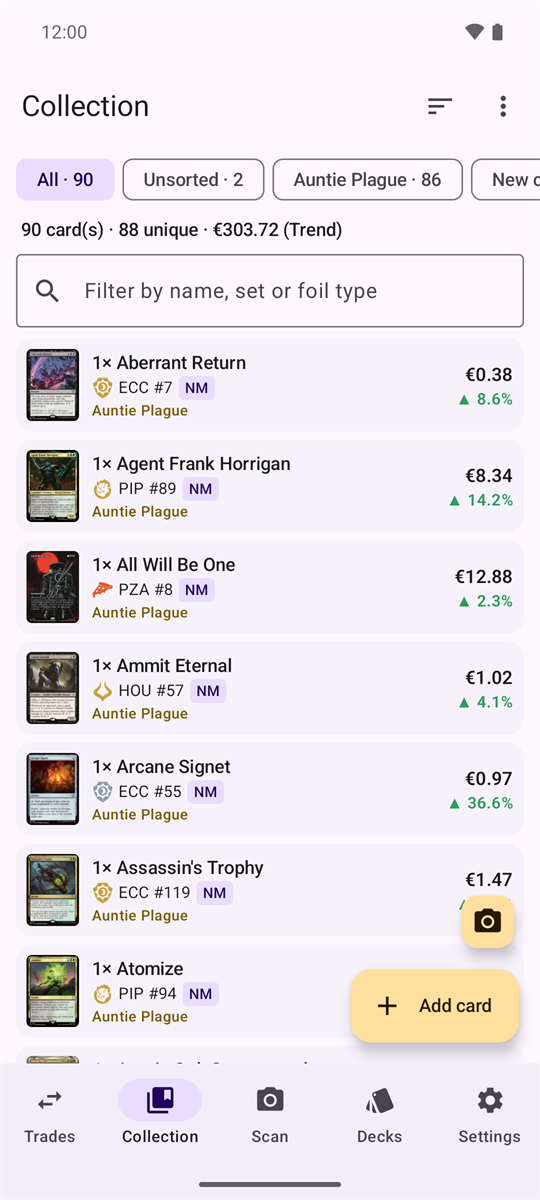
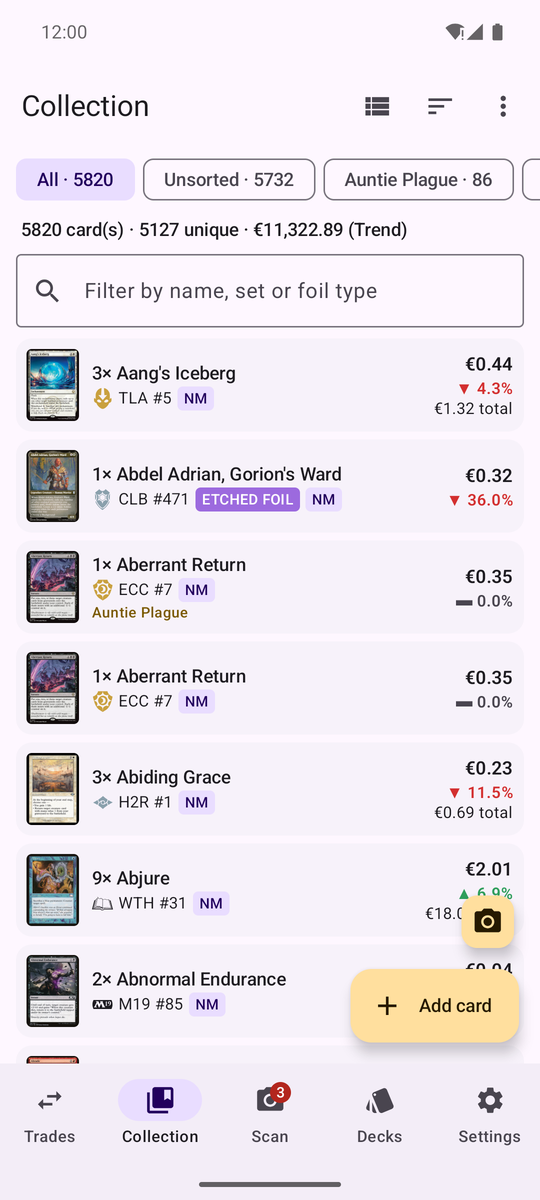
README: new screenshots for 1.12
Collection list and compact views, Commander decks, deck page with Refresh bracket and power level,
the app's bracket and power cards (replacing Commander Salt's image) and Settings with the power level
source and Nextcloud sync.

diff --git a/README.md b/README.md
@@ -4,13 +4,17 @@ Track Magic: The Gathering trades, check they're fair using Cardmarket prices, a
 Keep your Commander decks at hand too, with their power level, brackets and rule-zero cards, organise the collection in
 binders, scan piles of cards before deciding where they go, and sync it all between your phones through your own Nextcloud.
 
-| Trade | Search | Collection & binders | Scan tab |
+| Trade | Search | Collection | Compact view |
 |:---:|:---:|:---:|:---:|
-| <img src="docs/screenshots/trade.png" width="200" alt="A trade with the value of both sides compared"> | <img src="docs/screenshots/search.png" width="200" alt="Search results listing every printing with Cardmarket prices"> | <img src="docs/screenshots/collection.png" width="200" alt="The collection with binder filters"> | <img src="docs/screenshots/scan.png" width="200" alt="Scanned cards waiting to be sent to a binder, trade or deck"> |
+| <img src="docs/screenshots/trade.png" width="200" alt="A trade with the value of both sides compared"> | <img src="docs/screenshots/search.png" width="200" alt="Search results listing every printing with Cardmarket prices"> | <img src="docs/screenshots/collection.png" width="200" alt="The collection as a list with binder filters"> | <img src="docs/screenshots/compact.png" width="200" alt="The collection as one text line per card"> |
 
-| Commander decks | Deck page | Rule-zero card |
-|:---:|:---:|:---:|
-| <img src="docs/screenshots/decks.png" width="200" alt="Imported Commander decks with power level and brackets"> | <img src="docs/screenshots/deck.png" width="200" alt="A deck's scores and decklist"> | <img src="docs/screenshots/rulezero.png" width="200" alt="Commander Salt power level rule-zero card, full screen"> |
+| Scan tab | Commander decks | Deck page | Settings |
+|:---:|:---:|:---:|:---:|
+| <img src="docs/screenshots/scan.png" width="200" alt="Scanned cards waiting to be sent to a binder, trade or deck"> | <img src="docs/screenshots/decks.png" width="200" alt="Imported Commander decks with power level and brackets"> | <img src="docs/screenshots/deck.png" width="200" alt="A deck's power level, brackets and the Refresh bracket and power level button"> | <img src="docs/screenshots/settings.png" width="200" alt="Choosing the power level source and connecting to Nextcloud"> |
+
+| Bracket card | Power card |
+|:---:|:---:|
+| <img src="docs/screenshots/bracket.png" width="200" alt="The app's bracket rule-zero card: brackets, criteria, how the deck plays and its combos"> | <img src="docs/screenshots/power.png" width="200" alt="The app's power level card with ScrollVault's power level, win turns and line for the pod"> |
 
 ## Install
 Copy `MTG-Trader-1.12.apk` to your phone and open it (allow "install unknown apps" for your file manager/browser when asked).
